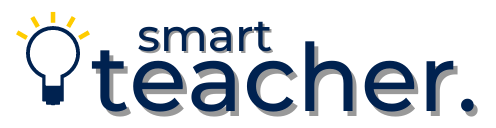
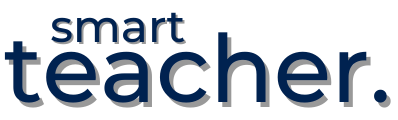
navbar

diff --git a/app/assets/stylesheets/components/_navbar.scss b/app/assets/stylesheets/components/_navbar.scss
@@ -7,7 +7,13 @@
   flex-grow: 0;
 }
 
-.navbar-lewagon .navbar-brand img {
+.navbar-lewagon .navbar-ident img {
   margin-left: 0;
   width: 80px;
+}
+
+.navbar-lewagon .navbar-ident img {
+  margin-right: 20px;
+  margin-top: 3px;
+  width: 120px;
 }
